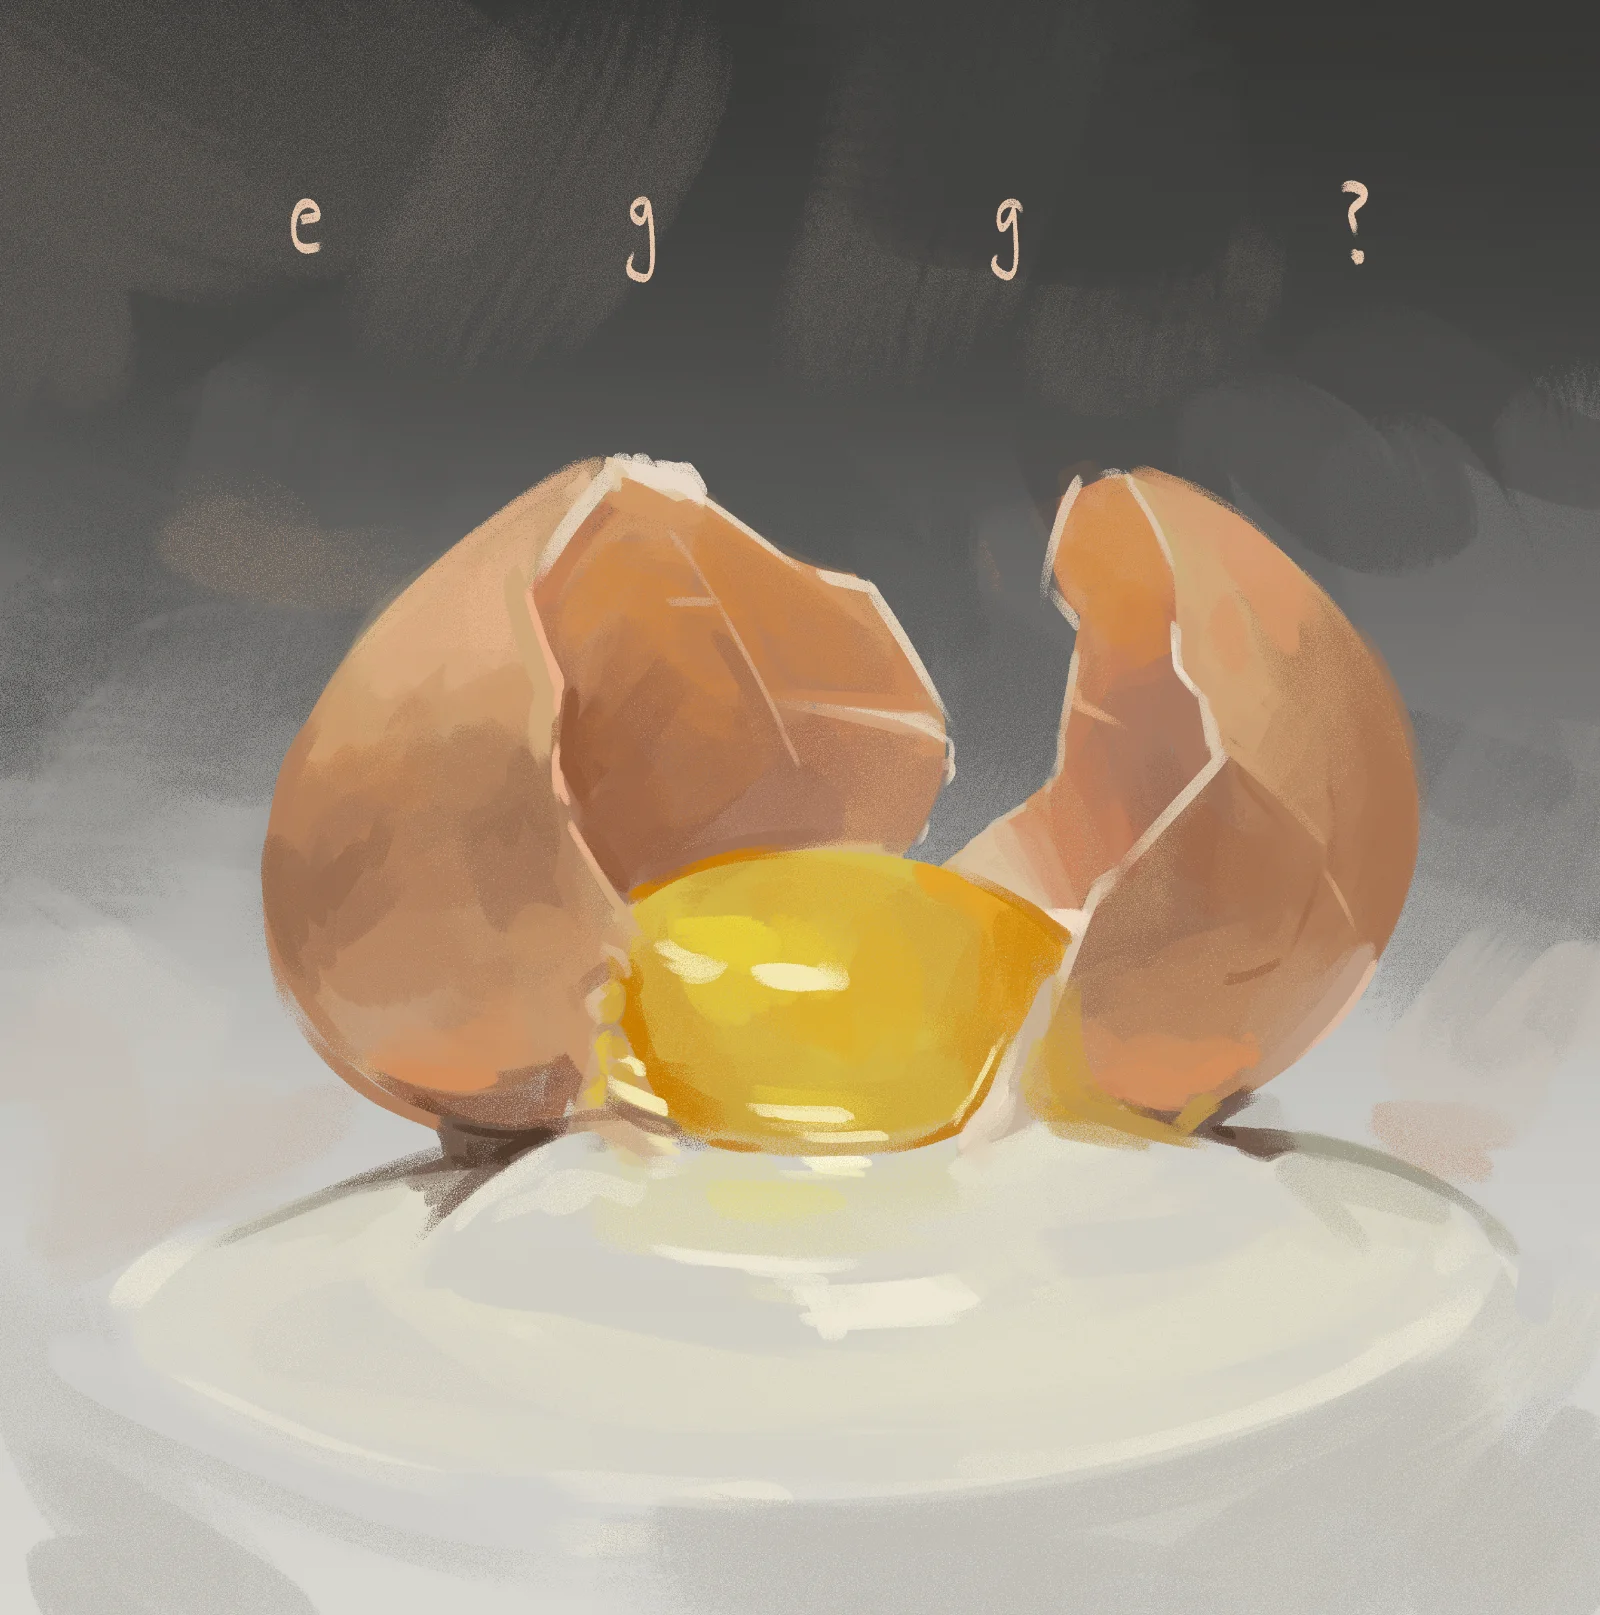
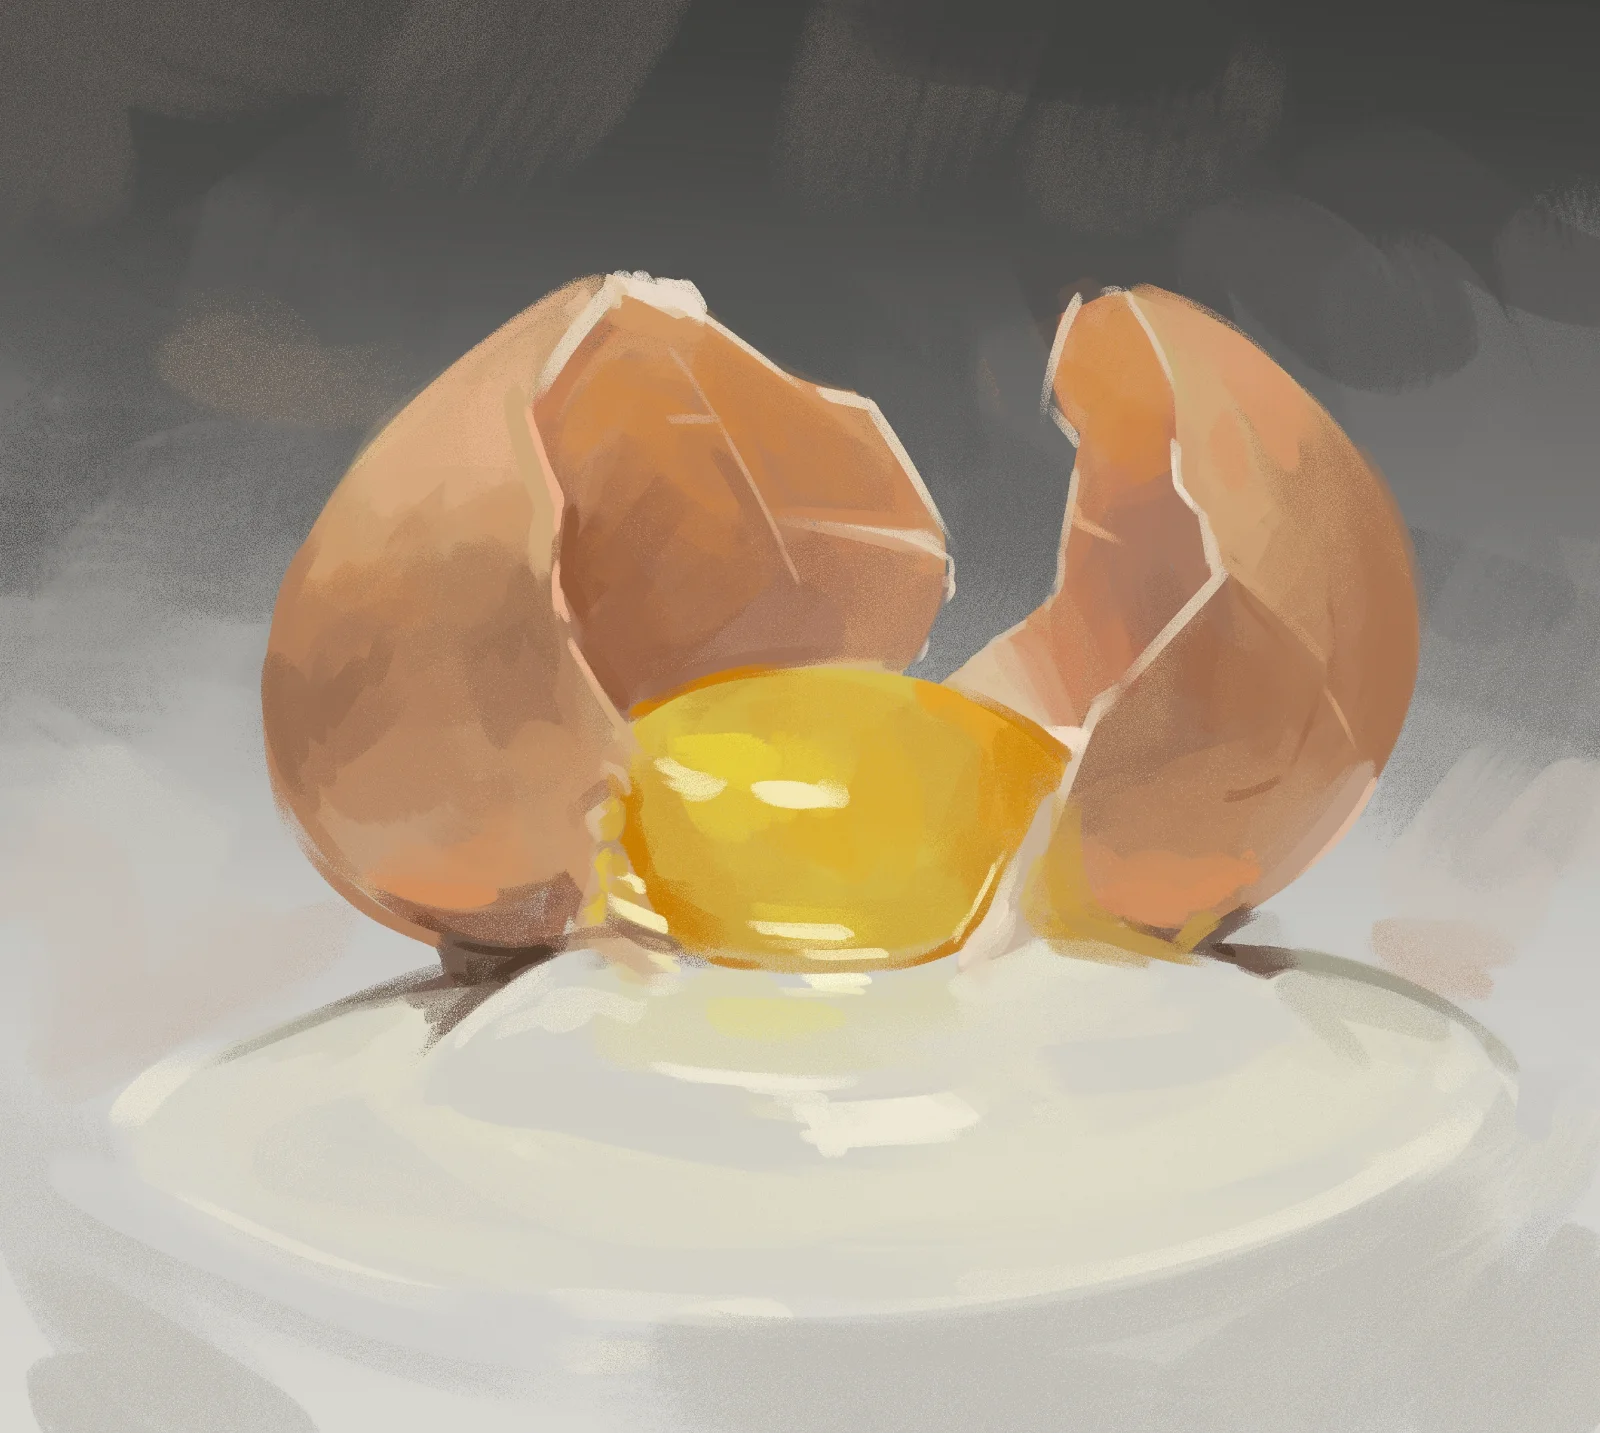
reshuffle items

diff --git a/app/types/portfolio-config.ts b/app/types/portfolio-config.ts
@@ -16,12 +16,20 @@ export const PortfolioConfig: PortfolioType[] = [
       "Still life digital painting of a teapot with smooth ceramic surfaces and refined sculptural form",
   },
   {
-    filepath: "/art/sl-egg.webp",
+    filepath: "/art/sl-lemons.webp",
+    width: 1600,
+    height: 1937,
+    clientDescription: "Lemons",
+    seoDescription:
+      "Still life digital painting of lemons with bright yellow hues and soft textured citrus skin",
+  },
+  {
+    filepath: "/art/sl-yolk.webp",
     width: 1600,
     height: 1615,
-    clientDescription: "Egg",
+    clientDescription: "Egg Yolk",
     seoDescription:
-      "Still life digital painting of an egg with soft natural light and delicate tonal gradients",
+      "Still life digital painting of an egg yolk with rich golden color and luminous translucent texture",
   },
   {
     filepath: "/art/sl-honey.webp",
@@ -31,14 +39,7 @@ export const PortfolioConfig: PortfolioType[] = [
     seoDescription:
       "Still life digital painting of honey with warm golden tones and rich translucent texture",
   },
-  {
-    filepath: "/art/np-antelope.webp",
-    width: 1600,
-    height: 2156,
-    clientDescription: "Antelope Canyon",
-    seoDescription:
-      "Digital painting of Antelope Canyon's narrow slot canyon with glowing orange and red sandstone walls",
-  },
+
   {
     filepath: "/art/np-banff.webp",
     width: 1600,
@@ -48,6 +49,14 @@ export const PortfolioConfig: PortfolioType[] = [
       "Digital painting of Banff National Park featuring turquoise glacial lakes and snow-capped Rocky Mountain peaks",
   },
   {
+    filepath: "/art/sl-tangerines.webp",
+    width: 1600,
+    height: 1402,
+    clientDescription: "Tangerines",
+    seoDescription:
+      "Still life digital painting of tangerines with vibrant orange hues and soft textured citrus skin",
+  },
+  {
     filepath: "/art/np-yellowstone.webp",
     width: 1600,
     height: 2156,
@@ -55,6 +64,16 @@ export const PortfolioConfig: PortfolioType[] = [
     seoDescription:
       "Digital painting of Yellowstone National Park with geothermal hot springs and vast wilderness landscape",
   },
+
+  {
+    filepath: "/art/np-antelope.webp",
+    width: 1600,
+    height: 2156,
+    clientDescription: "Antelope Canyon",
+    seoDescription:
+      "Digital painting of Antelope Canyon's narrow slot canyon with glowing orange and red sandstone walls",
+  },
+
   {
     filepath: "/art/np-yosemite.webp",
     width: 1600,
@@ -96,14 +115,7 @@ export const PortfolioConfig: PortfolioType[] = [
     seoDescription:
       "Still life digital painting of ice with cool blue highlights and reflective crystalline surfaces",
   },
-  {
-    filepath: "/art/sl-tangerines.webp",
-    width: 1600,
-    height: 1402,
-    clientDescription: "Tangerines",
-    seoDescription:
-      "Still life digital painting of tangerines with vibrant orange hues and soft textured citrus skin",
-  },
+
   {
     filepath: "/art/sl-toast.webp",
     width: 1600,
@@ -112,4 +124,12 @@ export const PortfolioConfig: PortfolioType[] = [
     seoDescription:
       "Still life digital painting of toast with warm golden-brown tones and cozy everyday charm",
   },
+  // {
+  //   filepath: "/art/sl-egg.webp",
+  //   width: 1600,
+  //   height: 1615,
+  //   clientDescription: "Egg",
+  //   seoDescription:
+  //     "Still life digital painting of an egg with soft natural light and delicate tonal gradients",
+  // },
 ];